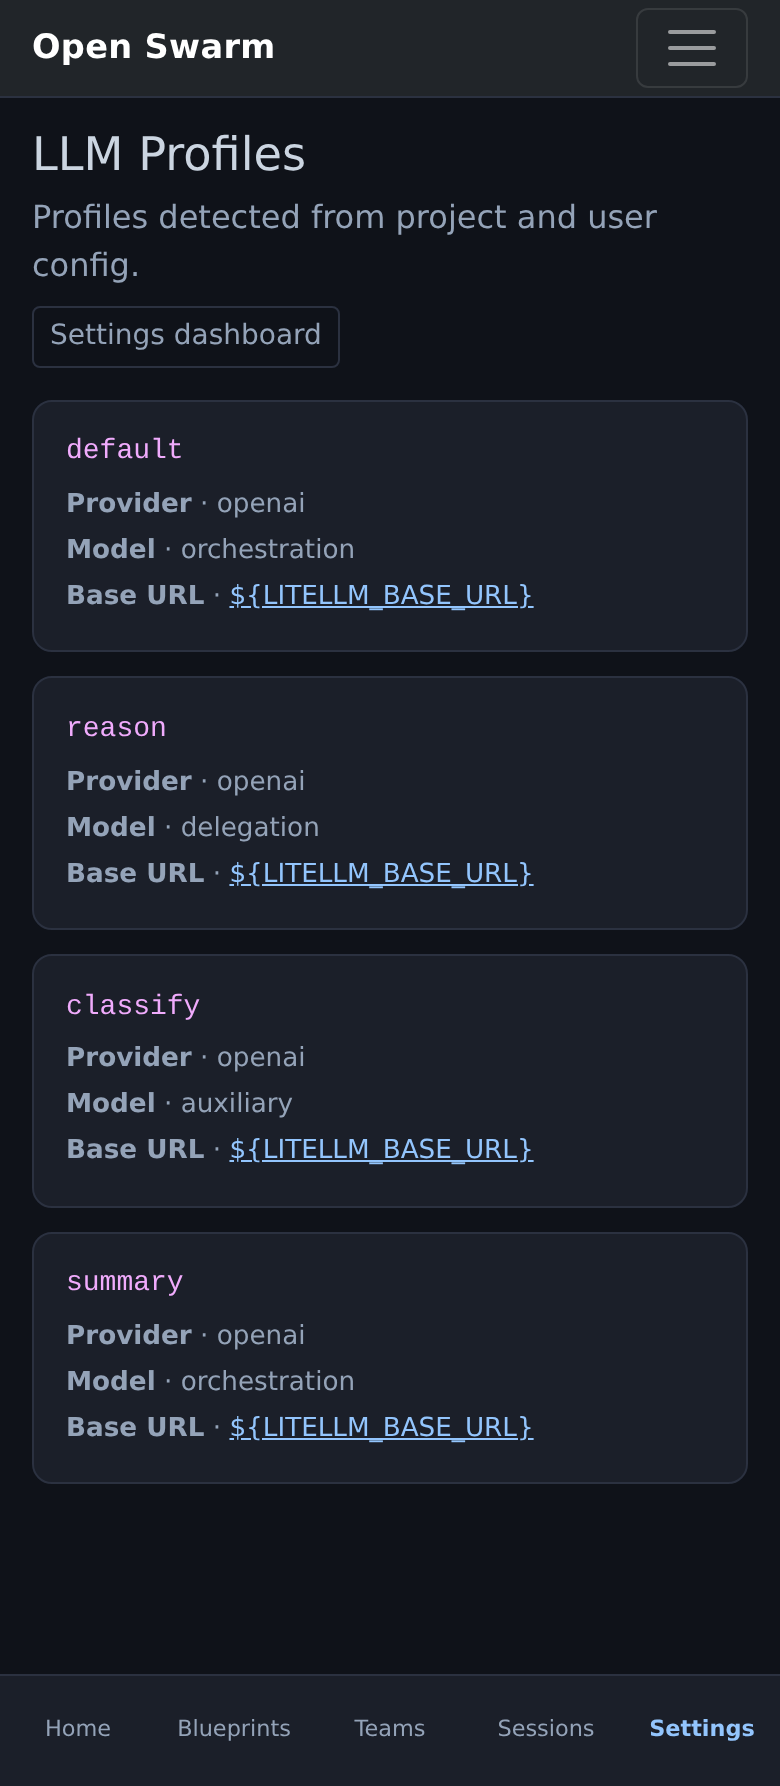
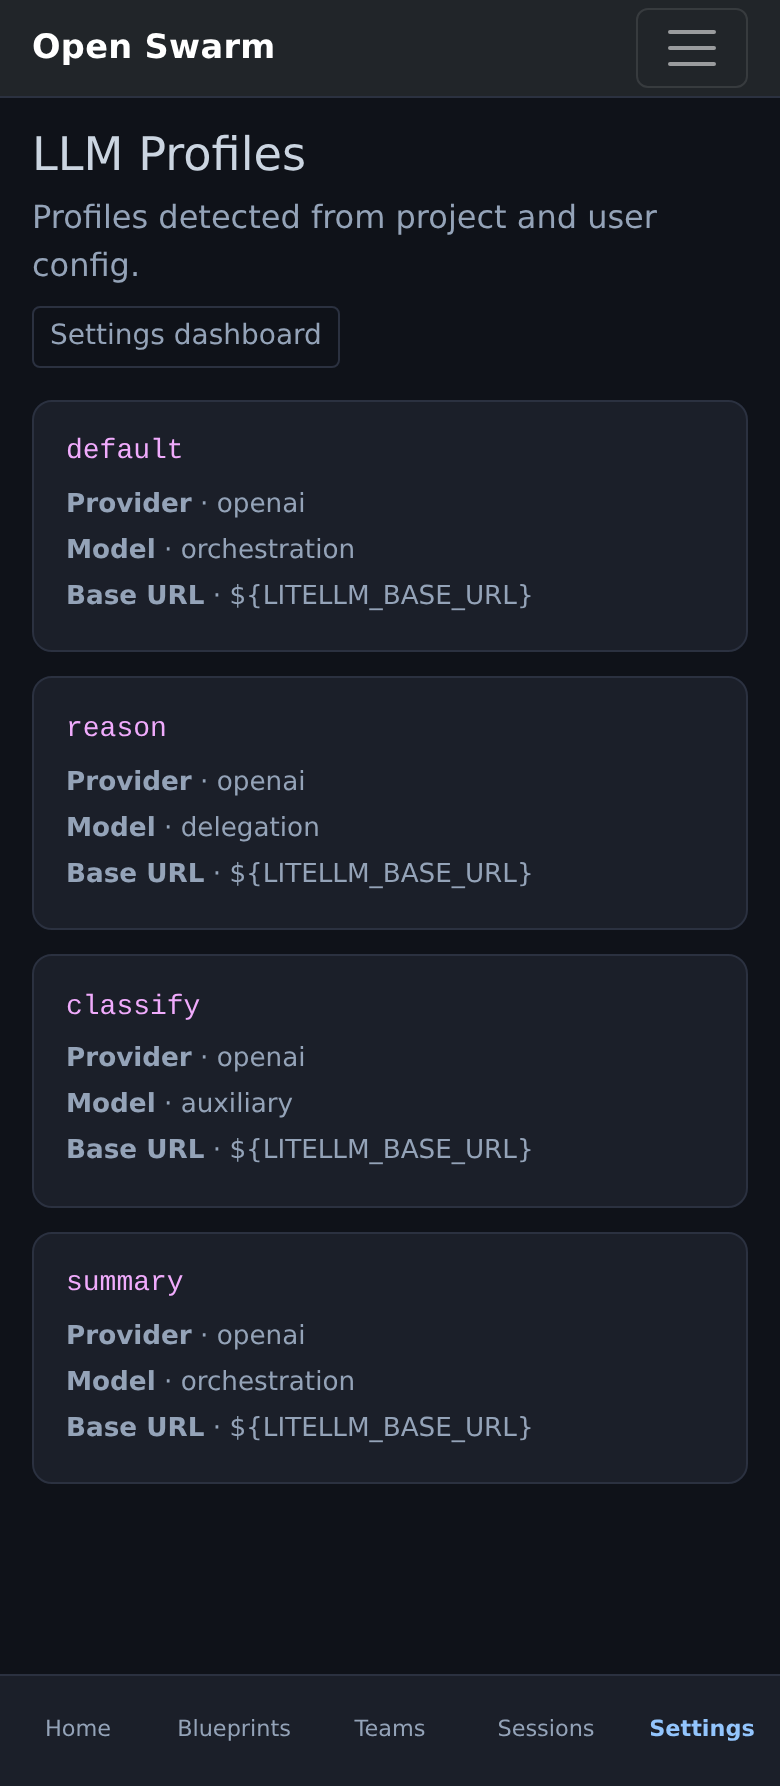
fix(webui): keep Chat Unavailable CTA visible; honest Connected shots
Prevent the fixed-height chat column from flex-shrinking the Sign-in /
Reconnect alert (shrink-0 + regression). Align SCREENSHOTS/GUIDED_TOUR with
journey spa-chat PNGs that show Connected after login.

diff --git a/webui/frontend/src/pages/ChatPage.tsx b/webui/frontend/src/pages/ChatPage.tsx
@@ -284,7 +284,11 @@ const ChatPage = () => {
       </div>
 
       {blueprintMissingFromList && (
-        <Alert type="warning" icon={<AlertCircle className="h-5 w-5" />}>
+        <Alert
+          type="warning"
+          icon={<AlertCircle className="h-5 w-5" />}
+          className="shrink-0"
+        >
           <div className="space-y-1 text-sm">
             <span className="font-medium">
               Blueprint <code>{selectedBlueprint}</code> from the URL is not in
@@ -299,9 +303,14 @@ const ChatPage = () => {
         </Alert>
       )}
 
-      {/* Fallback when the websocket is unavailable */}
+      {/* Fallback when the websocket is unavailable.
+          shrink-0: fixed-height flex column otherwise collapses this CTA. */}
       {(status === 'failed' || status === 'closed') && (
-        <Alert type="error" icon={<AlertCircle className="h-5 w-5" />}>
+        <Alert
+          type="error"
+          icon={<AlertCircle className="h-5 w-5" />}
+          className="shrink-0"
+        >
           <div className="space-y-2">
             <span className="font-medium">
               {status === 'failed'

diff --git a/webui/frontend/src/pages/__tests__/ChatPage.test.tsx b/webui/frontend/src/pages/__tests__/ChatPage.test.tsx
@@ -178,6 +178,10 @@ describe('ChatPage Unavailable / Sign-in CTA + connection status', () => {
     )
     expect(screen.getByRole('button', { name: /Reconnect/i })).toBeInTheDocument()
     expect(screen.getByText(/Unavailable — sign in required/i)).toBeInTheDocument()
+    // Fixed-height chat column must not flex-shrink the Unavailable CTA away.
+    const unavailableCopy = screen.getByText(/Websocket unavailable/i)
+    const unavailableAlert = unavailableCopy.closest('[role="alert"]')
+    expect(unavailableAlert?.className).toMatch(/shrink-0/)
   })
 
   it('clears the composer draft on Escape', async () => {

diff --git a/docs/SCREENSHOTS.md b/docs/SCREENSHOTS.md
@@ -17,7 +17,7 @@ full-page PNGs.
 | File | Page / URL | What it shows | Used in | Captured | Status |
 | --- | --- | --- | --- | --- | --- |
 | `landing.png` | `/` (React SPA dashboard) | Counts 0/55/55; Quick Actions **Launch Team / Browse Blueprints / Manage Teams / Settings**; desktop top nav Home·Blueprints·Teams·Sessions·Settings (matches App.tsx) | USER_JOURNEY.md, GUIDED_TOUR.md, README.md | 2026-08-18 | current |
-| `spa-chat.png` | `/chat` (React SPA) | **Unavailable** / websocket-failed gate + Sign in CTA; blueprint selector **not** in frame (differs from current `mobile/spa-chat.png`) | GUIDED_TOUR.md | 2026-08-18 | current |
+| `spa-chat.png` | `/chat` (React SPA) | **Connected** shell after journey login; blueprint selector + empty-state prompts (Unavailable Sign-in/Reconnect alert is code-path only when WS fails) | GUIDED_TOUR.md | 2026-08-18 | current |
 | `spa-teams.png` | `/teams` → **`/teams/launch/`** | Redirect capture + sticky “Redirected: …” banner over Team Launcher | GUIDED_TOUR.md | 2026-08-18 | current |
 | `spa-blueprints.png` | `/blueprints` → **`/blueprint-library/`** | Redirect capture + banner over Blueprint Library | GUIDED_TOUR.md | 2026-08-18 | current |
 | `spa-settings.png` | `/settings` → **`/settings/`** | Redirect capture + banner over Settings Dashboard | GUIDED_TOUR.md | 2026-08-18 | current |
@@ -50,16 +50,15 @@ Same stems as desktop with `--mobile` (iPhone-14-class: 390×844, dpr 2, touch).
   Settings** (no Chat tab; chat stays SPA-only).
 * Bare SPA paths still **redirect** to Django; `spa-*` redirect captures keep
   the sticky “Redirected: …” banner over the Django landing (Django five-tab).
-* Desktop `spa-chat.png` = **Unavailable** / websocket-failed gate (Sign in
-  CTA; no blueprint selector). Mobile `spa-chat.png` = **Connected** composer
-  after the journey login (blueprint selector visible; **Chat** dock tab
-  active). Same capture script; WS outcome differs by viewport/run — do not
-  treat the pair as identical frames.
+* Desktop and mobile `spa-chat.png` both show the **Connected** composer after
+  the journey script logs in as `journey-admin` (blueprint selector + prompts).
+  When the websocket fails, ChatPage also renders a shrink-safe **Sign in** /
+  **Reconnect** alert (covered by unit tests; not the frame in these PNGs).
 
 | File | Page / URL | Mobile-specific notes | Captured | Status |
 | --- | --- | --- | --- | --- |
 | `mobile/landing.png` | `/` | Stat cards stack; Quick Actions **Launch Team / Browse Blueprints / Manage Teams / Settings**; **SPA 5-tab dock** Home · Chat · Blueprints · Teams · Sessions (Home active; matches App.tsx). Embedded in GUIDED_TOUR.md | 2026-08-18 | current |
-| `mobile/spa-chat.png` | `/chat` | **Connected** composer + blueprint selector; **SPA 5-tab dock** with **Chat** active (differs from desktop Unavailable gate) | 2026-08-18 | current |
+| `mobile/spa-chat.png` | `/chat` | **Connected** composer + blueprint selector; **SPA 5-tab dock** with **Chat** active | 2026-08-18 | current |
 | `mobile/spa-teams.png` | `/teams` → **`/teams/launch/`** | Redirect banner + Team Launcher (`hybrid_team` selected); Django **5-tab** bar (Teams active). Embedded in GUIDED_TOUR.md | 2026-08-18 | current |
 | `mobile/spa-blueprints.png` | `/blueprints` → **`/blueprint-library/`** | Redirect banner + single-column cards; Django **5-tab** (Blueprints active). Embedded in GUIDED_TOUR.md | 2026-08-18 | current |
 | `mobile/spa-settings.png` | `/settings` → **`/settings/`** | Redirect banner over Settings dashboard; Django **5-tab** (Settings active). Embedded in GUIDED_TOUR.md | 2026-08-18 | current |

diff --git a/CHANGELOG.md b/CHANGELOG.md
@@ -16,11 +16,12 @@ All notable changes to this project will be documented in this file.
 - **MoA soft-fail honesty:** `format_team_text` no longer labels empty `--team` specialists as “consensus only”; CLI prints a `MoA team soft-fail:…` stderr line after the payload; USERGUIDE / TROUBLESHOOTING exit-1 wording aligned
 - **Docs polish:** journey screenshots regenerated (2026-08-18) + caption/registry honesty; MoA troubleshooting; FEATURE_STATUS MoA team-path row; `cli-and-api.gif` refreshed from `SWARM_TEST_MODE` captures (optional `moa --team` scene)
 - **Session detail journey capture:** mid-run seed of `resp_journey_seed` so `session-detail.png` shows Graph/timeline; embeds in USER_JOURNEY / GUIDED_TOUR / SESSION_EXPLORER with seeded-fixture honesty (synthetic JSON, not a live hybrid_team run)
-- **SPA vs Django mobile docks:** recapture after Chat dock; docs distinguish SPA **Home · Chat · Blueprints · Teams · Sessions** from Django **… · Settings**; desktop `spa-chat.png` is Unavailable, mobile may be Connected
+- **SPA vs Django mobile docks:** recapture after Chat dock; docs distinguish SPA **Home · Chat · Blueprints · Teams · Sessions** from Django **… · Settings**; journey `spa-chat.png` is Connected post-login
 
 ### Fixed
 - **SPA honesty:** Teams/Blueprints pages no longer invent demo rows on API failure — empty + alert with Django deep-links; Launch is a real `/chat?blueprint=…` link (not a simulated timeout)
 - **Mobile dock:** Chat tab + `aria-current` for SPA routes; Settings remains on the top-bar icon
+- **Chat Unavailable CTA layout:** Sign-in/Reconnect alert uses `shrink-0` so the fixed-height chat column cannot collapse it
 - **GitHub marketplace UI:** non-OK `/marketplace/github/…` responses surface an honest empty/error; repo “View” links allow only `http:`/`https:` hrefs
 - **rest_mode / creator DOM XSS:** escape toast/creator messages; sanitize marked HTML via `htmlSafe.js` allowlist; gate profiles `base_url` href to http(s); slackbot `slackLogic.js` uses `textContent`; static regression tests
 - **CLI import on broken XDG cache:** `ensure_swarm_directories_exist` in `swarm.core.paths` is best-effort per root (`_safe_mkdir`) so a broken `~/.cache` symlink no longer crashes `swarm-cli` import

diff --git a/docs/GUIDED_TOUR.md b/docs/GUIDED_TOUR.md
@@ -68,18 +68,18 @@ Teams · Sessions · Settings — different chrome.*
 
 ### Chat — `/chat` (React SPA)
 
-![SPA chat (desktop): Unavailable / websocket-failed gate; Sign in CTA (no blueprint selector in this frame)](./screenshots/spa-chat.png)
+![SPA chat (desktop): Connected websocket shell with blueprint selector](./screenshots/spa-chat.png)
 
-*SPA websocket chat (`/ws/…`). Desktop `spa-chat.png` is the **Unavailable** /
-“Websocket connection failed” gate with a Sign in CTA (blueprint selector
-**not** in frame). Mobile `screenshots/mobile/spa-chat.png` differs: after the
-same journey login it shows the **Connected** shell with blueprint selector;
-dock is **Home · Chat · Blueprints · Teams · Sessions** with **Chat** active.
-Replies also need a working LLM profile once the socket stays up.*
+*SPA websocket chat (`/ws/…`). Journey capture logs in as `journey-admin`, so
+desktop and mobile `spa-chat.png` show the **Connected** shell with blueprint
+selector and empty-state prompts. Mobile dock is **Home · Chat · Blueprints ·
+Teams · Sessions** with **Chat** active. If the socket fails, the page also
+exposes a primary **Sign in** (returns to `/chat`) + **Reconnect** alert that
+must not flex-shrink away in the fixed-height layout. Replies need a working
+LLM profile.*
 
-**What you can do:** if you see the Unavailable gate, sign in and reconnect so
-the Connected shell appears, then stream replies. Prefer Django Team Launcher
-for scripted multi-agent runs.
+**What you can do:** pick a blueprint and stream replies. Prefer Django Team
+Launcher for scripted multi-agent runs.
 
 ### Bare SPA entry URLs (redirect to Django)
 
